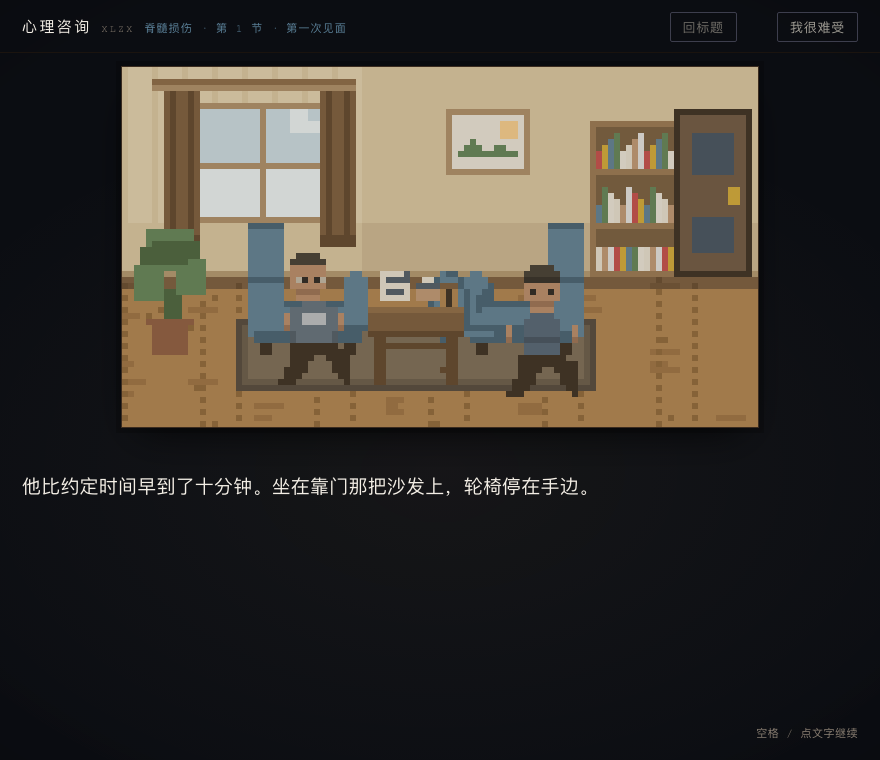
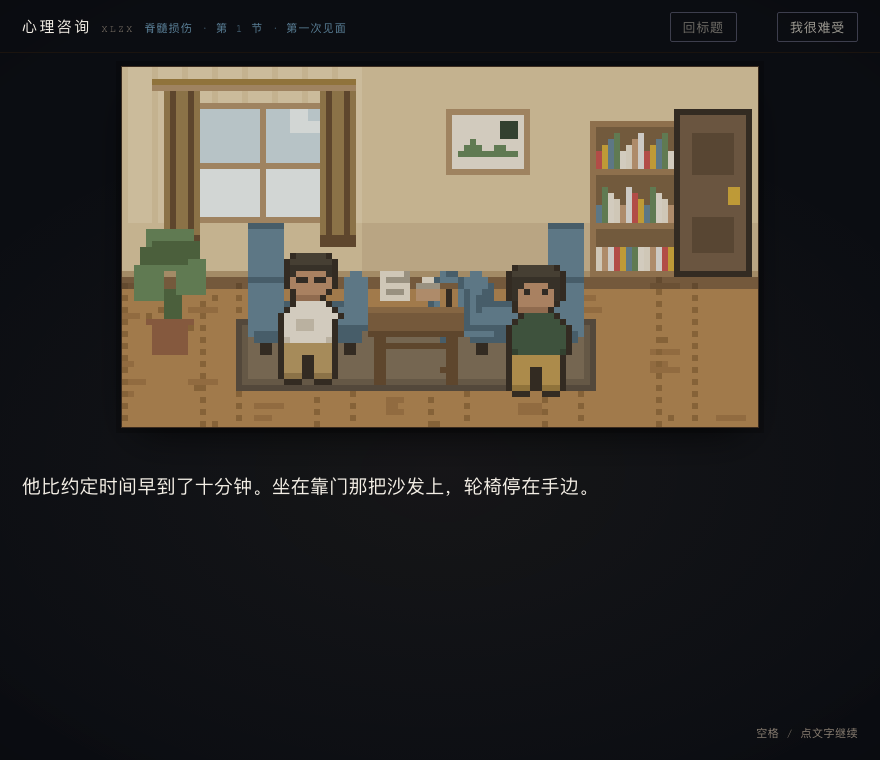
立绘换风格：参考元气骑士；咨询师白衣卡其裤，来访者墨绿衣土黄裤
按用户指定固定服装配色：
  咨询师  白上衣 #f2eee4 + 卡其裤 #b99a63
  来访者  墨绿上衣 #33513d + 土黄裤 #c19a4e

从元气骑士取的四条造型语言：
  1. 头占比大（头宽从 6 px 加到 10 px，约占身高 1/3）
  2. 一圈深色描边，把角色从背景里抠出来
  3. 平涂色块，每种材质只用「本色 + 一个暗面」，不做渐变
  4. 四肢短粗、轮廓圆钝

描边在这里是**必需**，不是风格偏好。实测对比度：
  白上衣 #f2eee4 对墙面 #e8d8b6 = 1.21:1
  白上衣 对地板 #b3854f      = 2.84:1
  卡其裤 #b99a63 对地板      = 1.23:1
  土黄裤 #c19a4e 对地板      = 1.25:1
没有描边，这两个人在房间里基本等于隐形——这是用户指定配色的必然结果，
不是可以"调好看一点"的事。

过程与两个被工具抓到的真实错误：
  · 描边最初用四邻域生成，在凹口（领口、两腿之间）糊上多余描边像素；
    改为逐轮剔除"未紧贴身体"的描边像素。
  · 咨询师身上留了一个 'G'（旧眼镜框）不在调色板里，会渲染成品红；
    是 render-char-compare 的"缺色即报错"抓到的，不是目测到的。
    该工具原先缺色静默画品红，已改为直接抛错。
  · 行宽不一致：描边脚本只 trimEnd 了尾部，把行长信息弄丢，
    角色地图要求每行等宽，已补齐。

清理：删掉换风格后不再使用的 PAL_EXT 键（E/e/K/L/k/u 及 W/G2/b），
现在 14 个键全部在用，且无调色板外字符。

diff --git a/心理咨询.html b/心理咨询.html
@@ -1329,20 +1329,33 @@ body::before {
 // 方案 B 冻结的是「空房间」，没有画人；这里补上两个人和几处随剧情变的东西。
 //
 // 坐标系统一：和方案 B 一样，每个字符 = 1 个逻辑像素，空格 = 透明，106 × 60 的画布。
-// 渲染时不做缩放，所以人必须画在房间尺度的像素上——头大概 5–6 像素宽，跟沙发一个量级。
+// 渲染时不做缩放，所以人必须画在房间尺度的像素上。
+// 立绘风格参考《元气骑士》：头占比大、一圈深色描边、平涂色块、四肢短粗。
+// 头宽 10 px（原先 6 px）——头小的话五官没有落笔的地方。
 
-// 方案 B 的 39 色里没有肤色、发色、衣服色（原本只画家具）。补 6 个，语气保持一致：低饱和。
+// 方案 B 的 39 色只画家具，没有肤色/发色/服装色，这里补齐。
+// 服装用用户指定的配色：咨询师白上衣+卡其裤；来访者墨绿上衣+土黄裤。
+// 另加一个深色 D 作描边 —— 白上衣对墙面只有 1.21:1，没有描边会看不见人。
 const PAL_EXT = {
   H: '#2a2622', // 头发（黑）
   Y: '#3d3830', // 头发高光（顶光落在发顶，把"一团黑"打开）
   Z: '#bd8e6b', // 皮肤
-  z: '#9c7154', // 皮肤（暗面 / 下巴与颈部阴影）
-  X: '#221f1c', // 瞳 / 眼镜框（同一个深色，两种用途）
-  E: '#4f6478', // 来访者卫衣（灰蓝，压得比沙发暗一点，不抢）
-  e: '#3d4f60', // 来访者卫衣（暗面）
-  K: '#5f707f', // 咨询师针织衫（比沙发浅，坐左边那把沙发时能分开）
-  L: '#c0c6cc', // 咨询师内搭 T 恤（浅灰）
-  k: '#4a5a68', // 咨询师针织衫暗面
+  z: '#9c7154', // 皮肤暗面
+  X: '#221f1c', // 瞳
+  D: '#241f1a', // 描边（元气骑士式深色轮廓，兼作发色）
+
+  // 咨询师：白上衣 + 卡其裤（用户指定）
+  A: '#f2eee4', // 白上衣
+  a: '#d3ccbd', // 白上衣暗面
+  N: '#b99a63', // 卡其裤
+  n: '#967b4a', // 卡其裤暗面
+
+  // 来访者 林越：墨绿上衣 + 土黄裤（用户指定）
+  J: '#33513d', // 墨绿上衣
+  j: '#243b2c', // 墨绿上衣暗面
+  Q: '#c19a4e', // 土黄裤
+  q: '#9c7c3a', // 土黄裤暗面
+
 };
 
 // 轮椅（14 × 17）：大轮 + 小前轮 + 脚踏 + 推手。
@@ -1370,55 +1383,55 @@ const WHEELCHAIR = [
 ];
 // 林越：坐姿，深色头发、灰蓝卫衣、手搭在扶手上，腿朝右搁在脚踏上
 const LINYUE = [
-  '     YYYY       ',
-  '    YYYYYY      ',
-  '    HHHHHH      ',
-  '    ZZZZZZ      ',
-  '    ZXZZXZ      ',
-  '    ZZZZZZ      ',
-  '     zzzz       ',
-  '     ZZZZ       ',
-  '     EEEE       ',
-  '    EEEEEE      ',
-  ' Z  EEEEEE  Z   ',
-  ' Z  EEEEEE  Z   ',
-  ' z  eeeeee  z   ',
-  '    EEEEEE      ',
-  '    EEEEEE      ',
-  '   DDDDDDDD     ',
-  '   DDDDDDDDDD   ',
-  '   DDDD  DDDD   ',
-  '   DDD    DDD   ',
-  '  DDDD    DDD   ',
-  '  DDD      DD   ',
-  ' DDD        D   ',
+  '  DYYYYYYD  ',
+  ' DYYYYYYYYD ',
+  ' DHHHHHHHHD ',
+  ' DHHZZZZHHD ',
+  ' DHZXZZXZHD ',
+  ' DHZZZZZZHD ',
+  '  DZZZZZZD  ',
+  '  DzzzzzD   ',
+  '   DJJJJJD  ',
+  '  DJJJJJJJD ',
+  ' DJJJJJJJJJD',
+  ' DJJJJJJJJJD',
+  ' DJJJJJJJJJD',
+  ' DJJJJJJJJJD',
+  ' DjJJJJJJJjD',
+  ' DQQQQQQQQD ',
+  ' DQQQQQQQQD ',
+  ' DQQQDDQQQD ',
+  ' DQQQDDQQQD ',
+  ' DQQQDDQQQD ',
+  ' DqqqDDqqqD ',
+  '  DDD  DDD  ',
 ];
 
 // 咨询师（玩家）：坐在左边沙发上，面朝右，手里的笔和本子是玩家自己的视角，
 // 所以不画——画了会变成"看着自己"，很怪。
 const COUNSELOR = [
-  '    YYYY        ',
-  '   YYYYYY       ',
-  '   ZZZZZZ       ',
-  '   ZZZZZZ       ',
-  '   ZGXZXG       ',
-  '   ZZZZZZ       ',
-  '    zzzz        ',
-  '    ZZZZ        ',
-  '     KKKK       ',
-  '   KKKKKKKK     ',
-  '  ZKKLLLLKKZ    ',
-  '  ZKKLLLLKKZ    ',
-  '  zKKKKKKKKz    ',
-  '   kKKKKKKk     ',
-  '   kKKKKKKk     ',
-  '   DDDDDDDD     ',
-  '   DDDDDDDDDD   ',
-  '   DDDD  DDDD   ',
-  '   DDD    DDD   ',
-  '  DDDD    DDD   ',
-  '  DDD      DD   ',
-  ' DDD        D   ',
+  '   DYYYYYD  ',
+  '  DYYYYYYYD ',
+  '  DHHHHHHHD ',
+  '  DHZZZZZHD ',
+  '  DZXXZXXZD ',
+  '  DZZZZZZZD ',
+  '   DZZZZZD  ',
+  '   DzzzzD   ',
+  '   DAAAAAD  ',
+  '  DAAAAAAAD ',
+  ' DAAAAAAAAAD',
+  ' DAAaaaAAAD ',
+  ' DAAaaaAAAD ',
+  ' DAAAAAAAAD ',
+  ' DaAAAAAAaD ',
+  ' DNNNNNNNND ',
+  ' DNNNNNNNND ',
+  ' DNNNDDNNND ',
+  ' DNNNDDNNND ',
+  ' DNNNDDNNND ',
+  ' DnnnDDnnnD ',
+  '  DDD  DDD  ',
 ];
 
 // 人的画法分两种，别搞混：

diff --git a/src/sprites.js b/src/sprites.js
@@ -2,20 +2,33 @@
 // 方案 B 冻结的是「空房间」，没有画人；这里补上两个人和几处随剧情变的东西。
 //
 // 坐标系统一：和方案 B 一样，每个字符 = 1 个逻辑像素，空格 = 透明，106 × 60 的画布。
-// 渲染时不做缩放，所以人必须画在房间尺度的像素上——头大概 5–6 像素宽，跟沙发一个量级。
+// 渲染时不做缩放，所以人必须画在房间尺度的像素上。
+// 立绘风格参考《元气骑士》：头占比大、一圈深色描边、平涂色块、四肢短粗。
+// 头宽 10 px（原先 6 px）——头小的话五官没有落笔的地方。
 
-// 方案 B 的 39 色里没有肤色、发色、衣服色（原本只画家具）。补 6 个，语气保持一致：低饱和。
+// 方案 B 的 39 色只画家具，没有肤色/发色/服装色，这里补齐。
+// 服装用用户指定的配色：咨询师白上衣+卡其裤；来访者墨绿上衣+土黄裤。
+// 另加一个深色 D 作描边 —— 白上衣对墙面只有 1.21:1，没有描边会看不见人。
 const PAL_EXT = {
   H: '#2a2622', // 头发（黑）
   Y: '#3d3830', // 头发高光（顶光落在发顶，把"一团黑"打开）
   Z: '#bd8e6b', // 皮肤
-  z: '#9c7154', // 皮肤（暗面 / 下巴与颈部阴影）
-  X: '#221f1c', // 瞳 / 眼镜框（同一个深色，两种用途）
-  E: '#4f6478', // 来访者卫衣（灰蓝，压得比沙发暗一点，不抢）
-  e: '#3d4f60', // 来访者卫衣（暗面）
-  K: '#5f707f', // 咨询师针织衫（比沙发浅，坐左边那把沙发时能分开）
-  L: '#c0c6cc', // 咨询师内搭 T 恤（浅灰）
-  k: '#4a5a68', // 咨询师针织衫暗面
+  z: '#9c7154', // 皮肤暗面
+  X: '#221f1c', // 瞳
+  D: '#241f1a', // 描边（元气骑士式深色轮廓，兼作发色）
+
+  // 咨询师：白上衣 + 卡其裤（用户指定）
+  A: '#f2eee4', // 白上衣
+  a: '#d3ccbd', // 白上衣暗面
+  N: '#b99a63', // 卡其裤
+  n: '#967b4a', // 卡其裤暗面
+
+  // 来访者 林越：墨绿上衣 + 土黄裤（用户指定）
+  J: '#33513d', // 墨绿上衣
+  j: '#243b2c', // 墨绿上衣暗面
+  Q: '#c19a4e', // 土黄裤
+  q: '#9c7c3a', // 土黄裤暗面
+
 };
 
 // 轮椅（14 × 17）：大轮 + 小前轮 + 脚踏 + 推手。
@@ -43,55 +56,55 @@ const WHEELCHAIR = [
 ];
 // 林越：坐姿，深色头发、灰蓝卫衣、手搭在扶手上，腿朝右搁在脚踏上
 const LINYUE = [
-  '     YYYY       ',
-  '    YYYYYY      ',
-  '    HHHHHH      ',
-  '    ZZZZZZ      ',
-  '    ZXZZXZ      ',
-  '    ZZZZZZ      ',
-  '     zzzz       ',
-  '     ZZZZ       ',
-  '     EEEE       ',
-  '    EEEEEE      ',
-  ' Z  EEEEEE  Z   ',
-  ' Z  EEEEEE  Z   ',
-  ' z  eeeeee  z   ',
-  '    EEEEEE      ',
-  '    EEEEEE      ',
-  '   DDDDDDDD     ',
-  '   DDDDDDDDDD   ',
-  '   DDDD  DDDD   ',
-  '   DDD    DDD   ',
-  '  DDDD    DDD   ',
-  '  DDD      DD   ',
-  ' DDD        D   ',
+  '  DYYYYYYD  ',
+  ' DYYYYYYYYD ',
+  ' DHHHHHHHHD ',
+  ' DHHZZZZHHD ',
+  ' DHZXZZXZHD ',
+  ' DHZZZZZZHD ',
+  '  DZZZZZZD  ',
+  '  DzzzzzD   ',
+  '   DJJJJJD  ',
+  '  DJJJJJJJD ',
+  ' DJJJJJJJJJD',
+  ' DJJJJJJJJJD',
+  ' DJJJJJJJJJD',
+  ' DJJJJJJJJJD',
+  ' DjJJJJJJJjD',
+  ' DQQQQQQQQD ',
+  ' DQQQQQQQQD ',
+  ' DQQQDDQQQD ',
+  ' DQQQDDQQQD ',
+  ' DQQQDDQQQD ',
+  ' DqqqDDqqqD ',
+  '  DDD  DDD  ',
 ];
 
 // 咨询师（玩家）：坐在左边沙发上，面朝右，手里的笔和本子是玩家自己的视角，
 // 所以不画——画了会变成"看着自己"，很怪。
 const COUNSELOR = [
-  '    YYYY        ',
-  '   YYYYYY       ',
-  '   ZZZZZZ       ',
-  '   ZZZZZZ       ',
-  '   ZGXZXG       ',
-  '   ZZZZZZ       ',
-  '    zzzz        ',
-  '    ZZZZ        ',
-  '     KKKK       ',
-  '   KKKKKKKK     ',
-  '  ZKKLLLLKKZ    ',
-  '  ZKKLLLLKKZ    ',
-  '  zKKKKKKKKz    ',
-  '   kKKKKKKk     ',
-  '   kKKKKKKk     ',
-  '   DDDDDDDD     ',
-  '   DDDDDDDDDD   ',
-  '   DDDD  DDDD   ',
-  '   DDD    DDD   ',
-  '  DDDD    DDD   ',
-  '  DDD      DD   ',
-  ' DDD        D   ',
+  '   DYYYYYD  ',
+  '  DYYYYYYYD ',
+  '  DHHHHHHHD ',
+  '  DHZZZZZHD ',
+  '  DZXXZXXZD ',
+  '  DZZZZZZZD ',
+  '   DZZZZZD  ',
+  '   DzzzzD   ',
+  '   DAAAAAD  ',
+  '  DAAAAAAAD ',
+  ' DAAAAAAAAAD',
+  ' DAAaaaAAAD ',
+  ' DAAaaaAAAD ',
+  ' DAAAAAAAAD ',
+  ' DaAAAAAAaD ',
+  ' DNNNNNNNND ',
+  ' DNNNNNNNND ',
+  ' DNNNDDNNND ',
+  ' DNNNDDNNND ',
+  ' DNNNDDNNND ',
+  ' DnnnDDnnnD ',
+  '  DDD  DDD  ',
 ];
 
 // 人的画法分两种，别搞混：
